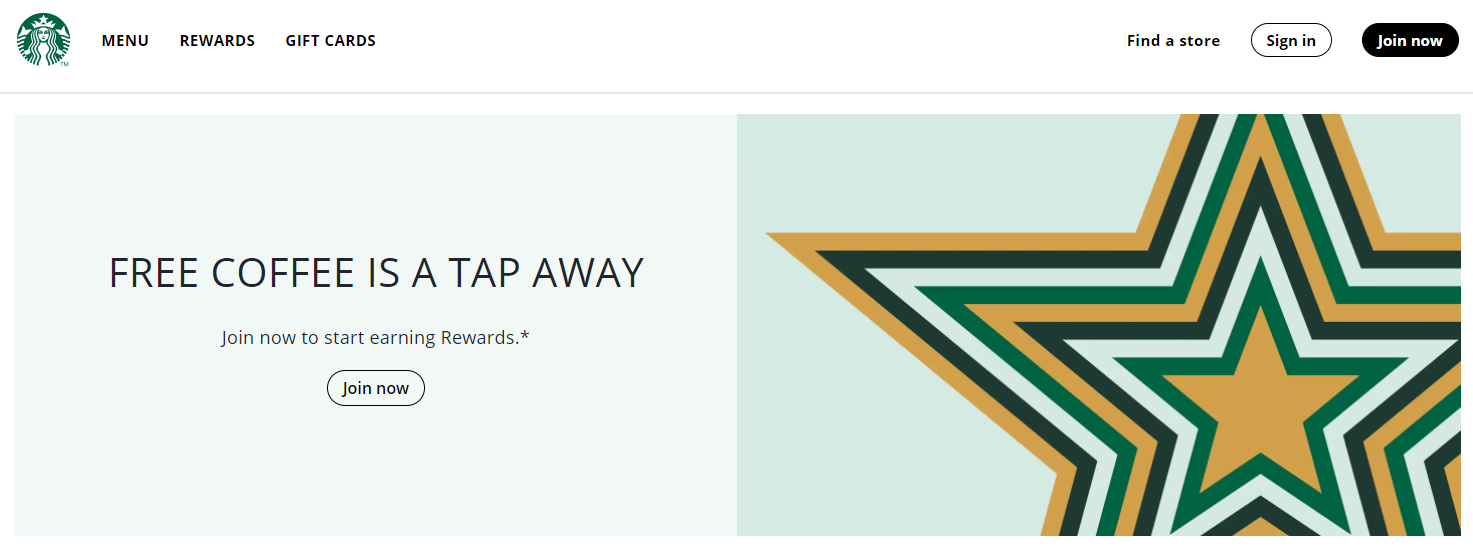
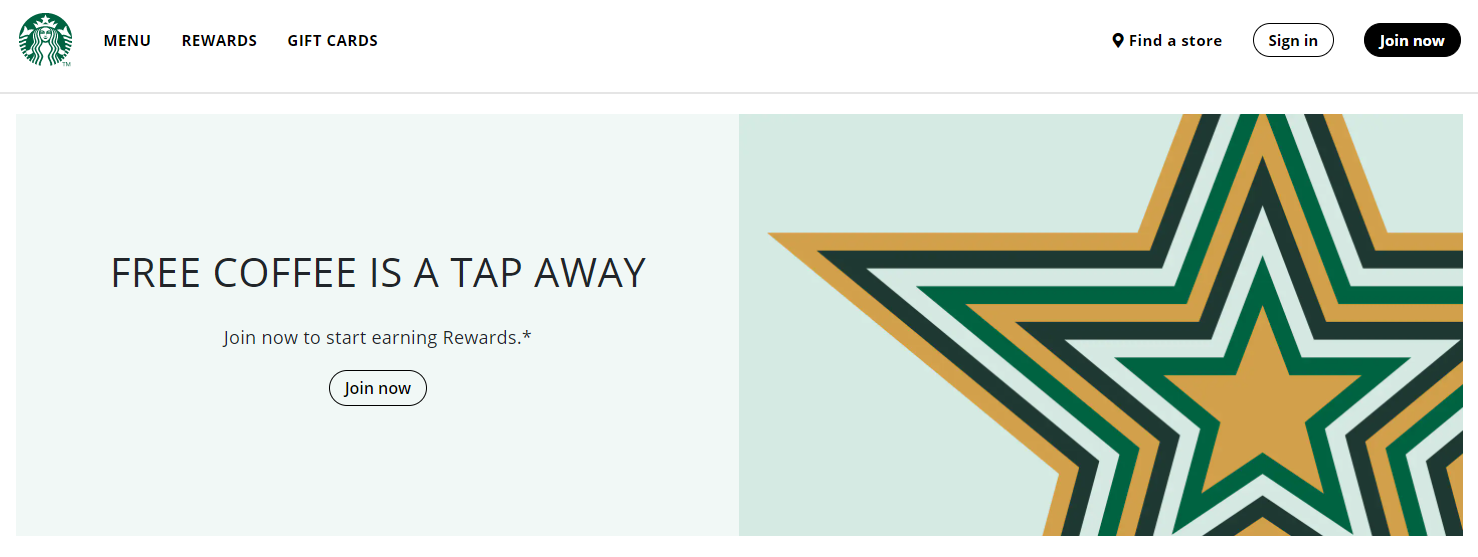
readme updated and files tided up

diff --git a/public/index.html b/public/index.html
@@ -2,29 +2,21 @@
 <html lang="en">
   <head>
     <meta charset="utf-8" />
-    <link rel="icon" href="%PUBLIC_URL%/favicon.ico" />
+    <link rel="icon" href="./favicon.png" />
     <meta name="viewport" content="width=device-width, initial-scale=1" />
     <meta name="theme-color" content="#000000" />
     <meta
       name="description"
       content="Web site created using create-react-app"
     />
-    <link rel="apple-touch-icon" href="%PUBLIC_URL%/logo192.png" />
-    <!--
-      manifest.json provides metadata used when your web app is installed on a
-      user's mobile device or desktop. See https://developers.google.com/web/fundamentals/web-app-manifest/
-    -->
-    <link rel="manifest" href="%PUBLIC_URL%/manifest.json" />
-    <!--
-      Notice the use of %PUBLIC_URL% in the tags above.
-      It will be replaced with the URL of the `public` folder during the build.
-      Only files inside the `public` folder can be referenced from the HTML.
 
-      Unlike "/favicon.ico" or "favicon.ico", "%PUBLIC_URL%/favicon.ico" will
-      work correctly both with client-side routing and a non-root public URL.
-      Learn how to configure a non-root public URL by running `npm run build`.
-    -->
+    <!--Font Awesome-->
+    <script
+      src="https://kit.fontawesome.com/519480b919.js"
+      crossorigin="anonymous"
+    ></script>
 
+    <!--Google Font-->
     <link rel="preconnect" href="https://fonts.googleapis.com" />
     <link rel="preconnect" href="https://fonts.gstatic.com" crossorigin />
     <link
@@ -44,15 +36,5 @@
   <body>
     <noscript>You need to enable JavaScript to run this app.</noscript>
     <div id="root"></div>
-    <!--
-      This HTML file is a template.
-      If you open it directly in the browser, you will see an empty page.
-
-      You can add webfonts, meta tags, or analytics to this file.
-      The build step will place the bundled scripts into the <body> tag.
-
-      To begin the development, run `npm start` or `yarn start`.
-      To create a production bundle, use `npm run build` or `yarn build`.
-    -->
   </body>
 </html>

diff --git a/src/components/TopNavigation.css b/src/components/TopNavigation.css
@@ -1,3 +1,4 @@
+/* navi-top (a whole of part) */
 .navi-top {
   display: flex;
   justify-content: space-between;
@@ -19,12 +20,7 @@
   color: #006341;
 }
 
-/*navi-logo + navi-left-list*/
-.navi-left {
-  display: flex;
-}
-
-/*navi-logo*/
+/* navi-logo */
 .navi-logo {
   width: 85px;
   height: 85px;
@@ -36,7 +32,11 @@
   height: 100%;
 }
 
-/*navi-left bar*/
+/* navi-left */
+.navi-left {
+  display: flex;
+}
+
 .navi-left-list {
   display: flex;
   align-items: center;
@@ -49,7 +49,7 @@
   padding: 10px 15px;
 }
 
-/*navi-right bar*/
+/* navi-right */
 .navi-right-list {
   display: flex;
   align-items: center;
@@ -75,6 +75,10 @@ button#signin {
   border: 1px solid #000000;
 }
 
+button#signin:hover {
+  background-color: #f0ebeb;
+}
+
 button#joinnow {
   padding: 5px 15px;
   background-color: black;
@@ -84,32 +88,6 @@ button#joinnow {
   border: 1px solid #000000;
 }
 
-button#signin:hover {
-  background-color: #f0ebeb;
-}
-
 button#joinnow:hover {
   background-color: #35303f;
-}
-
-@media screen and (max-width: 768px) {
-  .navi-top {
-    flex-direction: column;
-  }
-
-  .navi-left {
-    flex-direction: column;
-  }
-
-  .navi-left-list li,
-  .navi-right-list li {
-    width: 100%;
-  }
-
-  .navi-left-list {
-    flex-direction: column;
-  }
-  .navi-right-list {
-    flex-direction: column;
-  }
 }

diff --git a/src/components/BottomNavigation.css b/src/components/BottomNavigation.css
@@ -1,3 +1,4 @@
+/* navi-bottom (a whole of part) */
 .navi-bottom {
   text-align: left;
   display: flex;
@@ -6,17 +7,9 @@
   width: 80%;
 }
 
+/* navi-bottom-item */
 .navi-bottom-item {
   margin: 0 30px 0 0;
-}
-
-.navi-bottom-item ul {
-  list-style-type: none;
-  padding: 0;
-  margin: 0;
-}
-
-.navi-bottom-item {
   width: 15%;
 }
 
@@ -25,17 +18,23 @@
   font-weight: 600;
 }
 
-.navi-bottom-item li {
-  margin: 10px 0 0 0;
-  padding: 8px 0 0 0;
-}
-
 .navi-bottom-item a {
   color: grey;
   font-size: 0.9rem;
 }
 
-a:hover {
+.navi-bottom-item ul {
+  list-style-type: none;
+  padding: 0;
+  margin: 0;
+}
+
+.navi-bottom-item li {
+  margin: 10px 0 0 0;
+  padding: 8px 0 0 0;
+}
+
+.navi-bottom-item a:hover {
   color: black;
   text-decoration: none;
 }

diff --git a/src/App.css b/src/App.css
@@ -1,3 +1,4 @@
+/* App (a whole of part) */
 .App {
   font-family: "Open Sans", sans-serif;
   letter-spacing: 0.5px;
@@ -12,6 +13,7 @@
   text-align: center;
 }
 
+/* additionalExp */
 .additionalExp {
   margin: 20px;
 }
@@ -26,15 +28,17 @@
   text-decoration: none;
 }
 
-.border-contents-top-navi {
-  margin: 10px 0 20px 0;
+/* border */
+
+.border-contents {
+  margin: 40px 0;
   border: none;
   height: 2px;
   background-color: rgba(0, 0, 0, 0.1);
 }
 
-.border-contents {
-  margin: 40px 0;
+.border-contents-top-navi {
+  margin: 10px 0 20px 0;
   border: none;
   height: 2px;
   background-color: rgba(0, 0, 0, 0.1);

diff --git a/src/components/Content.css b/src/components/Content.css
@@ -1,3 +1,4 @@
+/* content-main (a whole of part) */
 .content-main {
   margin: 32px 0;
   display: flex;
@@ -13,24 +14,25 @@ div.content-main {
   width: 50%;
 }
 
+/* textbox */
 .textbox {
   margin: 5px 0 0 0;
   font-size: 1.1em;
   padding: 32px 40px;
-
   display: flex;
   flex-direction: column;
   justify-content: center;
-
   align-items: center;
 }
 
+/* imgbox */
 .imgbox img {
   max-width: 100%;
   object-fit: cover;
   box-sizing: border-box;
 }
 
+/* button on both boxes */
 button#contentClick {
   padding: 5px 15px;
   border-radius: 20px;

diff --git a/src/components/BottomInfo.css b/src/components/BottomInfo.css
@@ -1,3 +1,4 @@
+/* bottom-info (a whole of part) */
 .bottom-info {
   margin: 0;
   font-size: 0.9rem;
@@ -14,14 +15,6 @@
 .icons-info-navi li {
   margin: 0 20px 20px 0;
   padding: 0;
-
-  /*
-  width: 32px;
-  height: 32px;
-  background: #196f3d;
-  border-radius: 50%;
-  text-align: center;
-  */
 }
 
 .icons svg {
@@ -59,7 +52,7 @@
   padding: 0 20px 0 0;
 }
 
-/* very bottom info */
+/* Copy right info */
 .bottom-info ul {
   list-style-type: none;
   padding: 0;

diff --git a/src/components/TopNavigation.js b/src/components/TopNavigation.js
@@ -34,7 +34,9 @@ function TopNavigation() {
 
       <ul className="navi-right-list">
         <li id="findStore">
-          <a href="https://www.starbucks.ca/store-locator">Find a store</a>
+          <a href="https://www.starbucks.ca/store-locator">
+            <i className="fas fa-map-marker-alt"></i>&nbsp;Find a store
+          </a>
         </li>
         <li>
           <a href="https://www.starbucks.ca/account/signin?ReturnUrl=%2F">

diff --git a/src/components/Content.js b/src/components/Content.js
@@ -32,8 +32,4 @@ function Content(props) {
   );
 }
 
-Content.defaultProps = {
-  direction: "row",
-};
-
 export default Content;

diff --git a/README.md b/README.md
@@ -1,1 +1,57 @@
-![Alt text](/readmeImg/readmeImg.png "Optional Title")
+# Cloning Starbucks Webpage Project
+
+## Preview
+
+---
+
+![image](./readmeImg/readmeImage.png)
+
+<br/>
+
+## About The Project
+
+---
+
+This is my first cloning webpage constructed using React.js. In this project, I cloned the main page of Starbucks with the thought of assembling Lego blocks called a component in React.js.
+
+<br/>
+
+## What to be focused on during the project
+
+---
+
+- First, I tried to carry out the component concept thoroughly by creating components as many as I can.
+- Second, I attempted to find out the way to create reusable components for repeated views.
+- Third, I kept on looking for something that could be split into another component.
+- Lastly, I sought to copy everything up to the smallest thing in order to make users unable to tell it apart which one is real.
+
+<br/>
+
+## Features
+
+---
+
+- Mapped objects in a JSON file to compose the main view with a variety of contents.
+- Applied separate CSS style on main views by passing props from a parent component into a child component.
+- Divided the layout into 4 components for managing each part separately.
+- Applied proper CSS effects, such as hovering, for having them emphasized.
+
+<br/>
+
+## Getting Started
+
+---
+
+By following the below instruction, you can view the webpage in practice.
+
+1.  Download the code from the repository and extract it.
+
+2.  Open the folder with VSCode.
+
+3.  Open a terminal and install npm modules.
+
+        > npm install
+
+4.  Start the application.
+
+        > npm start
